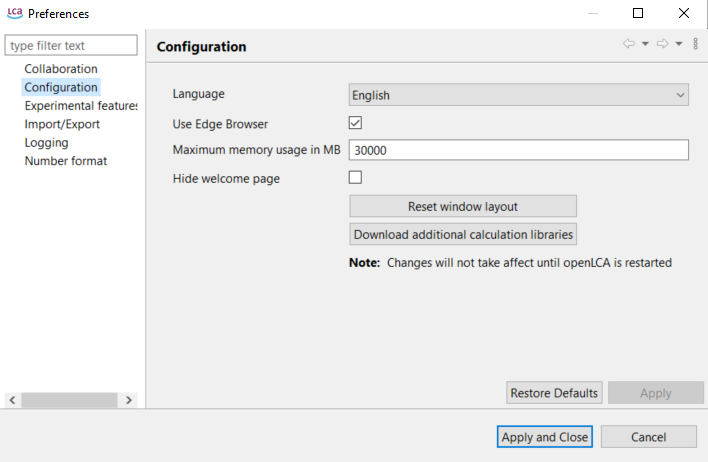
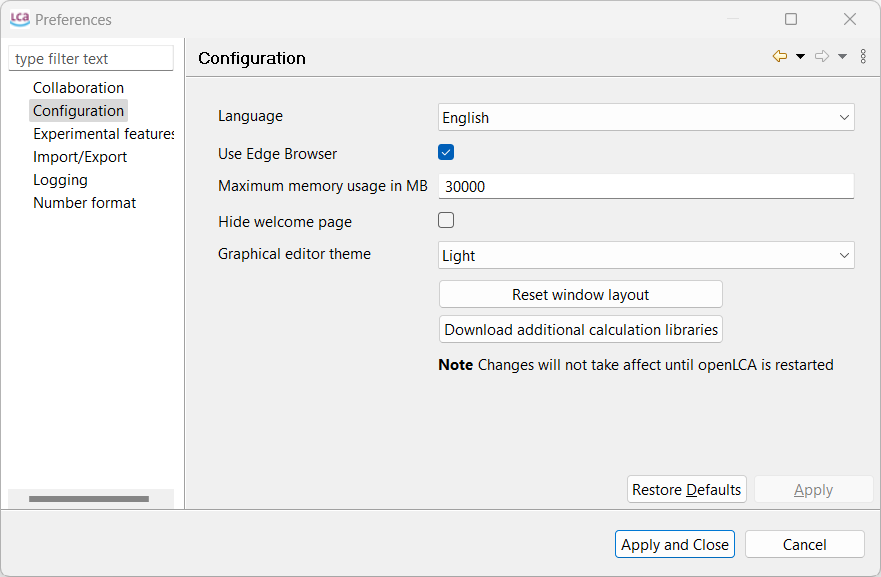
openLCA 2.3 update

diff --git a/src/running_olca_for_first_time.md b/src/running_olca_for_first_time.md
@@ -29,8 +29,6 @@ The following options are available under **File**:
 
     -   **Collaboration:** Here, you can select your preferred configurations for working with the collaboration server. 
 
-		- _Check restrictions before commit_: this option will be deprecated in the upcoming 2.1.1 release o openLCA.
-
 		- _Check referenced changes_: if this is checked, openLCA will scan - after selecting datasets for a commit - the database for changes in datasets that are referenced by the selected datasets and suggests to also commit them. E.g. if you want to commit a process dataset, and you have added a newly created flow to the input table, the flow is considered a referenced change.
 
 		- _Enable comments_: if this is checked, openLCA loads comments that were added to data sets on the LCA Collaboration Server and displays them in the model editors.
@@ -40,7 +38,7 @@ The following options are available under **File**:
 
 		More information about the Collaboration Server can be found in the respective [chapter](./collaboserver.md).
 	 
-	 -  **Configuration:** Here you can choose among eleven available languages (Arabic, Bulgarian, Catalan, Chinese, English, French, German, Italian, Portuguese, Spanish or Turkish). You can also select the maximum memory usage (see [chapter](./installation/memory.md))
+	 -  **Configuration:** Here you can choose among eleven available languages (Arabic, Bulgarian, Catalan, Chinese, English, French, German, Italian, Portuguese, Spanish or Turkish). You can also select the maximum memory usage (see [chapter](./installation/memory.md)).
 		
 		![](./media/settings_configuration.png)  
 		_Preferences Configuration_
@@ -49,9 +47,13 @@ The following options are available under **File**:
 	
 	Furthermore, you can reset your window settings if you encounter a bug or if you found yourself lost with the number of open windows.
 
-	**Dark mode**: Our dark mode seamlessly follows the mode set for your entire system. To enable the dark mode in openLCA you need to select it on your operating system.
+	**Graphical editor theme**: You can change now the theme for the model graph namingly: Dark, Light, Nord Dark, Nord Light, Poimardres. However, to access the dark mode for the whole application, you need to select it on your operating system.
 		
-    - **Experimental features:** These features are still in development, but you can already access them by checking this box. We welcome any feedback to further refine them. Here you can activate the novel social impact assessment feature.
+		![](./media/editor_theme.png)  
+		
+	**Download calculation libraries**: This option allows you to integrated fast calculation libraries for openLCA. This function is still developed currently.
+    
+	- **Experimental features:** These features are still in development, but you can already access them by checking this box. We welcome any feedback to further refine them. Here you can activate the novel social impact assessment feature.
 		
 		![](./media/settings_experimental_features.png)  
 		_Preferences Experimental Features_

diff --git a/src/updates.md b/src/updates.md
@@ -3,9 +3,9 @@
 In this section you can check what the major manual updates were about and when they were released.
 
 
-## 30.09.2024
+## 01.10.2024
 
-- Adapted to openLCA 2.3
+- Adapted to changes coming along with the release of openLCA 2.3
 - Novel chapter on ["Dependent Parameters"](./advanced_top/dependent_parameter.md)
 - Expanded the ["Tags"](./cheat/tags.md) chapter and their use for result analysis
 - Expanded the ["Monte Carlo Simulation"](./advanced_top/monte_carlo.md) chapter and the connection to data quality
